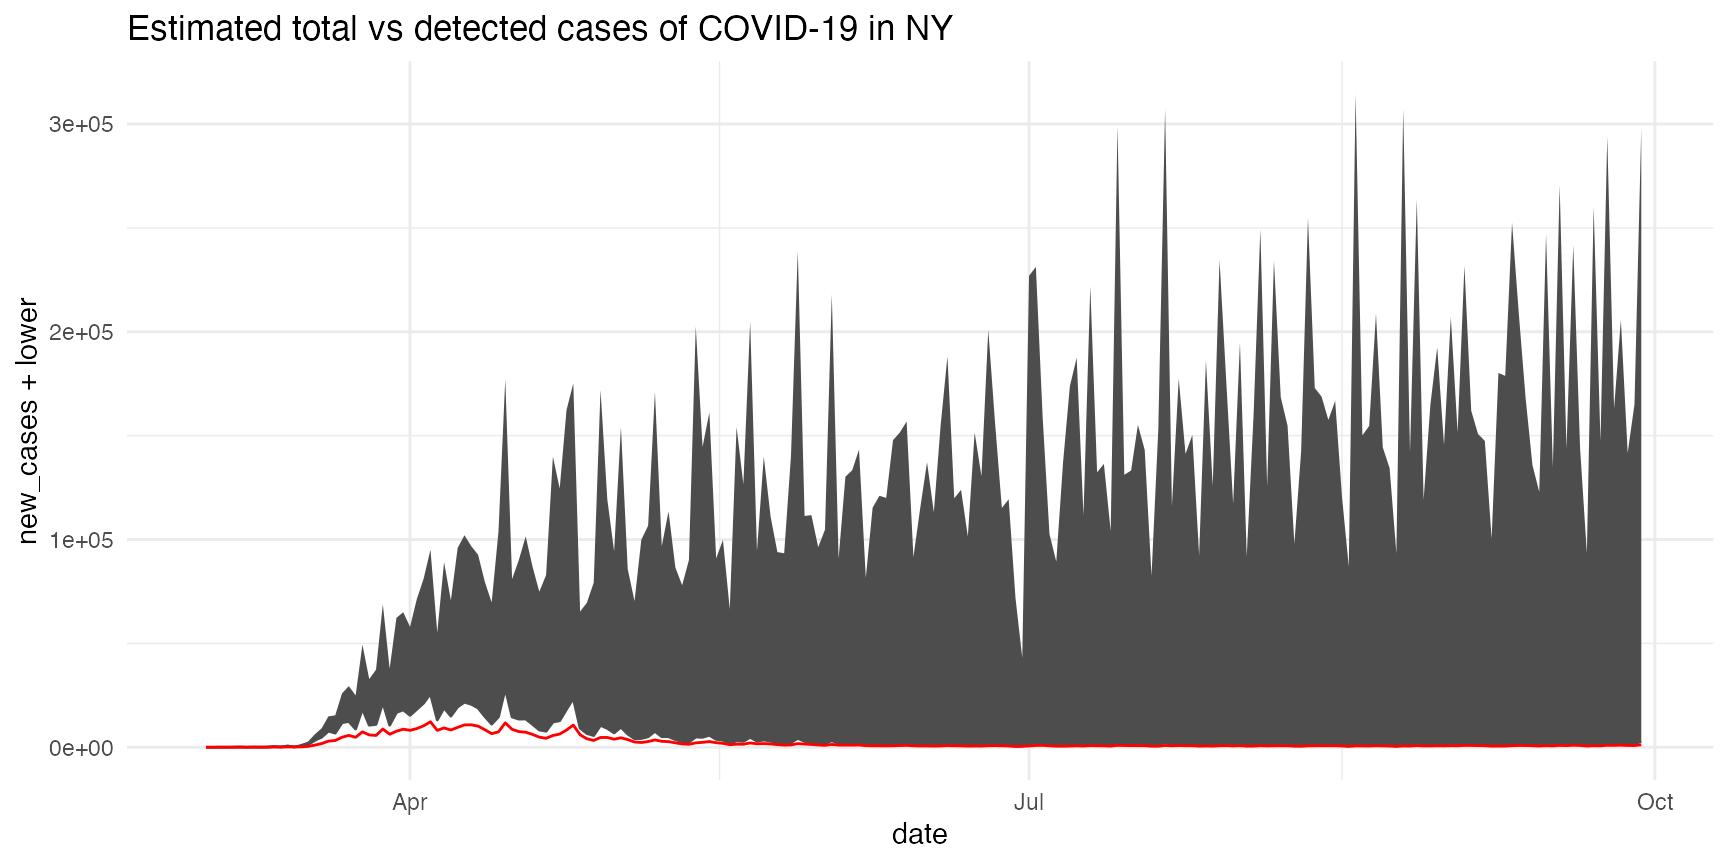
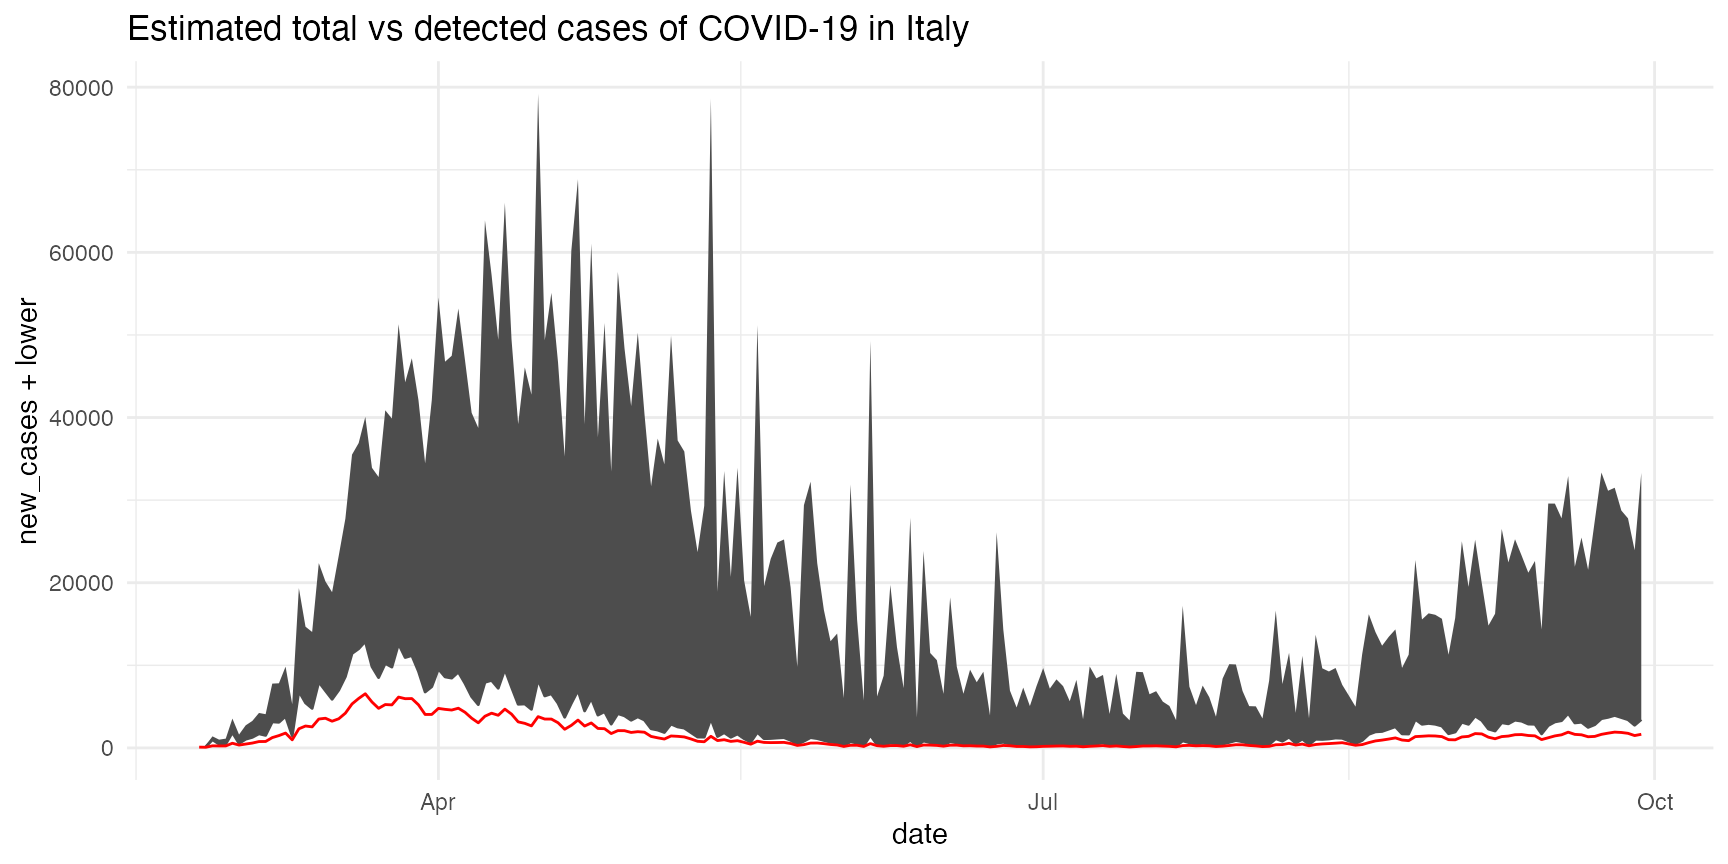
Built site for asymptor: 0.1@e3e56e1

diff --git a/articles/example.html b/articles/example.html
@@ -5,7 +5,7 @@
 <meta charset="utf-8">
 <meta http-equiv="X-UA-Compatible" content="IE=edge">
 <meta name="viewport" content="width=device-width, initial-scale=1.0">
-<title>Example on NY data during the COVID-19 pandemic • asymptor</title>
+<title>Example on Italy data during the COVID-19 pandemic • asymptor</title>
 <!-- favicons --><link rel="icon" type="image/png" sizes="16x16" href="../favicon-16x16.png">
 <link rel="icon" type="image/png" sizes="32x32" href="../favicon-32x32.png">
 <link rel="apple-touch-icon" type="image/png" sizes="180x180" href="../apple-touch-icon.png">
@@ -18,7 +18,7 @@
 <link rel="stylesheet" href="https://cdnjs.cloudflare.com/ajax/libs/font-awesome/5.12.1/css/v4-shims.min.css" integrity="sha256-wZjR52fzng1pJHwx4aV2AO3yyTOXrcDW7jBpJtTwVxw=" crossorigin="anonymous">
 <!-- clipboard.js --><script src="https://cdnjs.cloudflare.com/ajax/libs/clipboard.js/2.0.6/clipboard.min.js" integrity="sha256-inc5kl9MA1hkeYUt+EC3BhlIgyp/2jDIyBLS6k3UxPI=" crossorigin="anonymous"></script><!-- headroom.js --><script src="https://cdnjs.cloudflare.com/ajax/libs/headroom/0.11.0/headroom.min.js" integrity="sha256-AsUX4SJE1+yuDu5+mAVzJbuYNPHj/WroHuZ8Ir/CkE0=" crossorigin="anonymous"></script><script src="https://cdnjs.cloudflare.com/ajax/libs/headroom/0.11.0/jQuery.headroom.min.js" integrity="sha256-ZX/yNShbjqsohH1k95liqY9Gd8uOiE1S4vZc+9KQ1K4=" crossorigin="anonymous"></script><!-- pkgdown --><link href="../pkgdown.css" rel="stylesheet">
 <script src="../pkgdown.js"></script><link href="../extra.css" rel="stylesheet">
-<meta property="og:title" content="Example on NY data during the COVID-19 pandemic">
+<meta property="og:title" content="Example on Italy data during the COVID-19 pandemic">
 <meta property="og:description" content="asymptor">
 <meta property="og:image" content="/reference/figures/logo.png">
 <meta property="og:image:alt" content="A symptomatic person surrounded by many asymptomatic people">
@@ -79,7 +79,7 @@
       </header><script src="example_files/accessible-code-block-0.0.1/empty-anchor.js"></script><div class="row">
   <div class="col-md-9 contents">
     <div class="page-header toc-ignore">
-      <h1 data-toc-skip>Example on NY data during the COVID-19 pandemic</h1>
+      <h1 data-toc-skip>Example on Italy data during the COVID-19 pandemic</h1>
             
       
       <small class="dont-index">Source: <a href="https://github.com/bisaloo/asymptor/blob/master/vignettes/example.Rmd"><code>vignettes/example.Rmd</code></a></small>
@@ -93,19 +93,18 @@
 <span class="kw"><a href="https://rdrr.io/r/base/library.html">library</a></span><span class="op">(</span><span class="va"><a href="https://bisaloo.github.io/asymptor/">asymptor</a></span><span class="op">)</span></pre></div>
 <p>Let’s start by loading the example data. It’s bundled in the package but originally comes from <a href="https://github.com/GoogleCloudPlatform/covid-19-open-data" class="uri">https://github.com/GoogleCloudPlatform/covid-19-open-data</a> (Apache License 2.0).</p>
 <div class="sourceCode" id="cb2"><pre class="downlit">
-<span class="va">df</span> <span class="op">&lt;-</span> <span class="fu"><a href="https://rdrr.io/r/base/readRDS.html">readRDS</a></span><span class="op">(</span><span class="fu"><a href="https://rdrr.io/r/base/system.file.html">system.file</a></span><span class="op">(</span><span class="st">"extdata"</span>, <span class="st">"covid19_ny.rds"</span>, package <span class="op">=</span> <span class="st">"asymptor"</span><span class="op">)</span><span class="op">)</span>
+<span class="va">df</span> <span class="op">&lt;-</span> <span class="fu"><a href="https://rdrr.io/r/base/readRDS.html">readRDS</a></span><span class="op">(</span><span class="fu"><a href="https://rdrr.io/r/base/system.file.html">system.file</a></span><span class="op">(</span><span class="st">"extdata"</span>, <span class="st">"covid19_italy.rds"</span>, package <span class="op">=</span> <span class="st">"asymptor"</span><span class="op">)</span><span class="op">)</span>
 <span class="fu"><a href="https://rdrr.io/r/utils/head.html">head</a></span><span class="op">(</span><span class="va">df</span><span class="op">)</span>
 <span class="co">#&gt;         date new_cases new_deaths new_recoveries</span>
-<span class="co">#&gt; 1 2020-03-01        NA         NA             NA</span>
-<span class="co">#&gt; 2 2020-03-02         0          0             NA</span>
-<span class="co">#&gt; 3 2020-03-03         1          0             NA</span>
-<span class="co">#&gt; 4 2020-03-04         9          0             NA</span>
-<span class="co">#&gt; 5 2020-03-05        11          0             NA</span>
-<span class="co">#&gt; 6 2020-03-06        22          0             NA</span></pre></div>
+<span class="co">#&gt; 1 2020-02-25        93          3              0</span>
+<span class="co">#&gt; 2 2020-02-26        78          2              2</span>
+<span class="co">#&gt; 3 2020-02-27       250          5             42</span>
+<span class="co">#&gt; 4 2020-02-28       238          4              1</span>
+<span class="co">#&gt; 5 2020-02-29       240          8              4</span>
+<span class="co">#&gt; 6 2020-03-01       566          5             33</span></pre></div>
 <p>We can feed this data directly to the <code><a href="../reference/estimate_asympto.html">estimate_asympto()</a></code> function. This function requires 4 columns, labelled as <code>date</code>, <code>cases</code>, <code>deaths</code>, and <code>recoveries</code> (if you want the upper bound), containing the daily number (not the cumulated number!) )</p>
 <div class="sourceCode" id="cb3"><pre class="downlit">
-<span class="va">asy</span> <span class="op">&lt;-</span> <span class="fu"><a href="../reference/estimate_asympto.html">estimate_asympto</a></span><span class="op">(</span><span class="va">df</span><span class="op">)</span>
-<span class="co">#&gt; Warning: Input df contains some NA values. Manually setting such entries to 0</span></pre></div>
+<span class="va">asy</span> <span class="op">&lt;-</span> <span class="fu"><a href="../reference/estimate_asympto.html">estimate_asympto</a></span><span class="op">(</span><span class="va">df</span><span class="op">)</span></pre></div>
 <p>We may want to visualise these estimations alongside the empirical data. So, we start by merging the two datasets:</p>
 <div class="sourceCode" id="cb4"><pre class="downlit">
 <span class="va">df</span> <span class="op">&lt;-</span> <span class="fu"><a href="https://rdrr.io/r/base/merge.html">merge</a></span><span class="op">(</span><span class="va">df</span>, <span class="va">asy</span><span class="op">)</span></pre></div>
@@ -118,10 +117,9 @@
                   ymax <span class="op">=</span> <span class="va">new_cases</span><span class="op">+</span><span class="va">upper</span><span class="op">)</span>, 
               fill <span class="op">=</span> <span class="st">"grey30"</span><span class="op">)</span> <span class="op">+</span>
   <span class="fu"><a href="https://ggplot2.tidyverse.org/reference/geom_path.html">geom_line</a></span><span class="op">(</span><span class="fu"><a href="https://ggplot2.tidyverse.org/reference/aes.html">aes</a></span><span class="op">(</span>y <span class="op">=</span> <span class="va">new_cases</span><span class="op">)</span>, color <span class="op">=</span> <span class="st">"red"</span><span class="op">)</span> <span class="op">+</span>
-  <span class="fu"><a href="https://ggplot2.tidyverse.org/reference/labs.html">labs</a></span><span class="op">(</span>title <span class="op">=</span> <span class="st">"Estimated total vs detected cases of COVID-19 in NY"</span><span class="op">)</span> <span class="op">+</span>
+  <span class="fu"><a href="https://ggplot2.tidyverse.org/reference/labs.html">labs</a></span><span class="op">(</span>title <span class="op">=</span> <span class="st">"Estimated total vs detected cases of COVID-19 in Italy"</span>,
+       ylab <span class="op">=</span> <span class="st">"Cases"</span><span class="op">)</span> <span class="op">+</span>
   <span class="fu"><a href="https://ggplot2.tidyverse.org/reference/ggtheme.html">theme_minimal</a></span><span class="op">(</span><span class="op">)</span>
-<span class="co">#&gt; Warning: Removed 1 row(s) containing missing values (geom_path).</span>
-
 <span class="co">#&gt; Warning: Removed 1 row(s) containing missing values (geom_path).</span></pre></div>
 <p><img src="example_files/figure-html/example_fig-1.png" width="100%"></p>
   </div>

diff --git a/index.html b/index.html
@@ -99,7 +99,7 @@
 <div id="example" class="section level2">
 <h2 class="hasAnchor">
 <a href="#example" class="anchor"></a>Example</h2>
-<p>Please see the <a href="https://bisaloo.github.io/asymptor/articles/example.html">vignette</a> for a detailed example using the COVID-19 data from New York.</p>
+<p>Please see the <a href="https://bisaloo.github.io/asymptor/articles/example.html">vignette</a> for a detailed example using the COVID-19 data from Italy.</p>
 <p><img src="https://bisaloo.github.io/asymptor/articles/example_files/figure-html/example_fig-1.png" alt="example_figure"></p>
 </div>
 </div>

diff --git a/articles/index.html b/articles/index.html
@@ -129,7 +129,7 @@
       <p class="section-desc"></p>
 
       <dl>
-        <dt><a href="example.html">Example on NY data during the COVID-19 pandemic</a></dt>
+        <dt><a href="example.html">Example on Italy data during the COVID-19 pandemic</a></dt>
         <dd></dt>
       </dl>
     </div>
